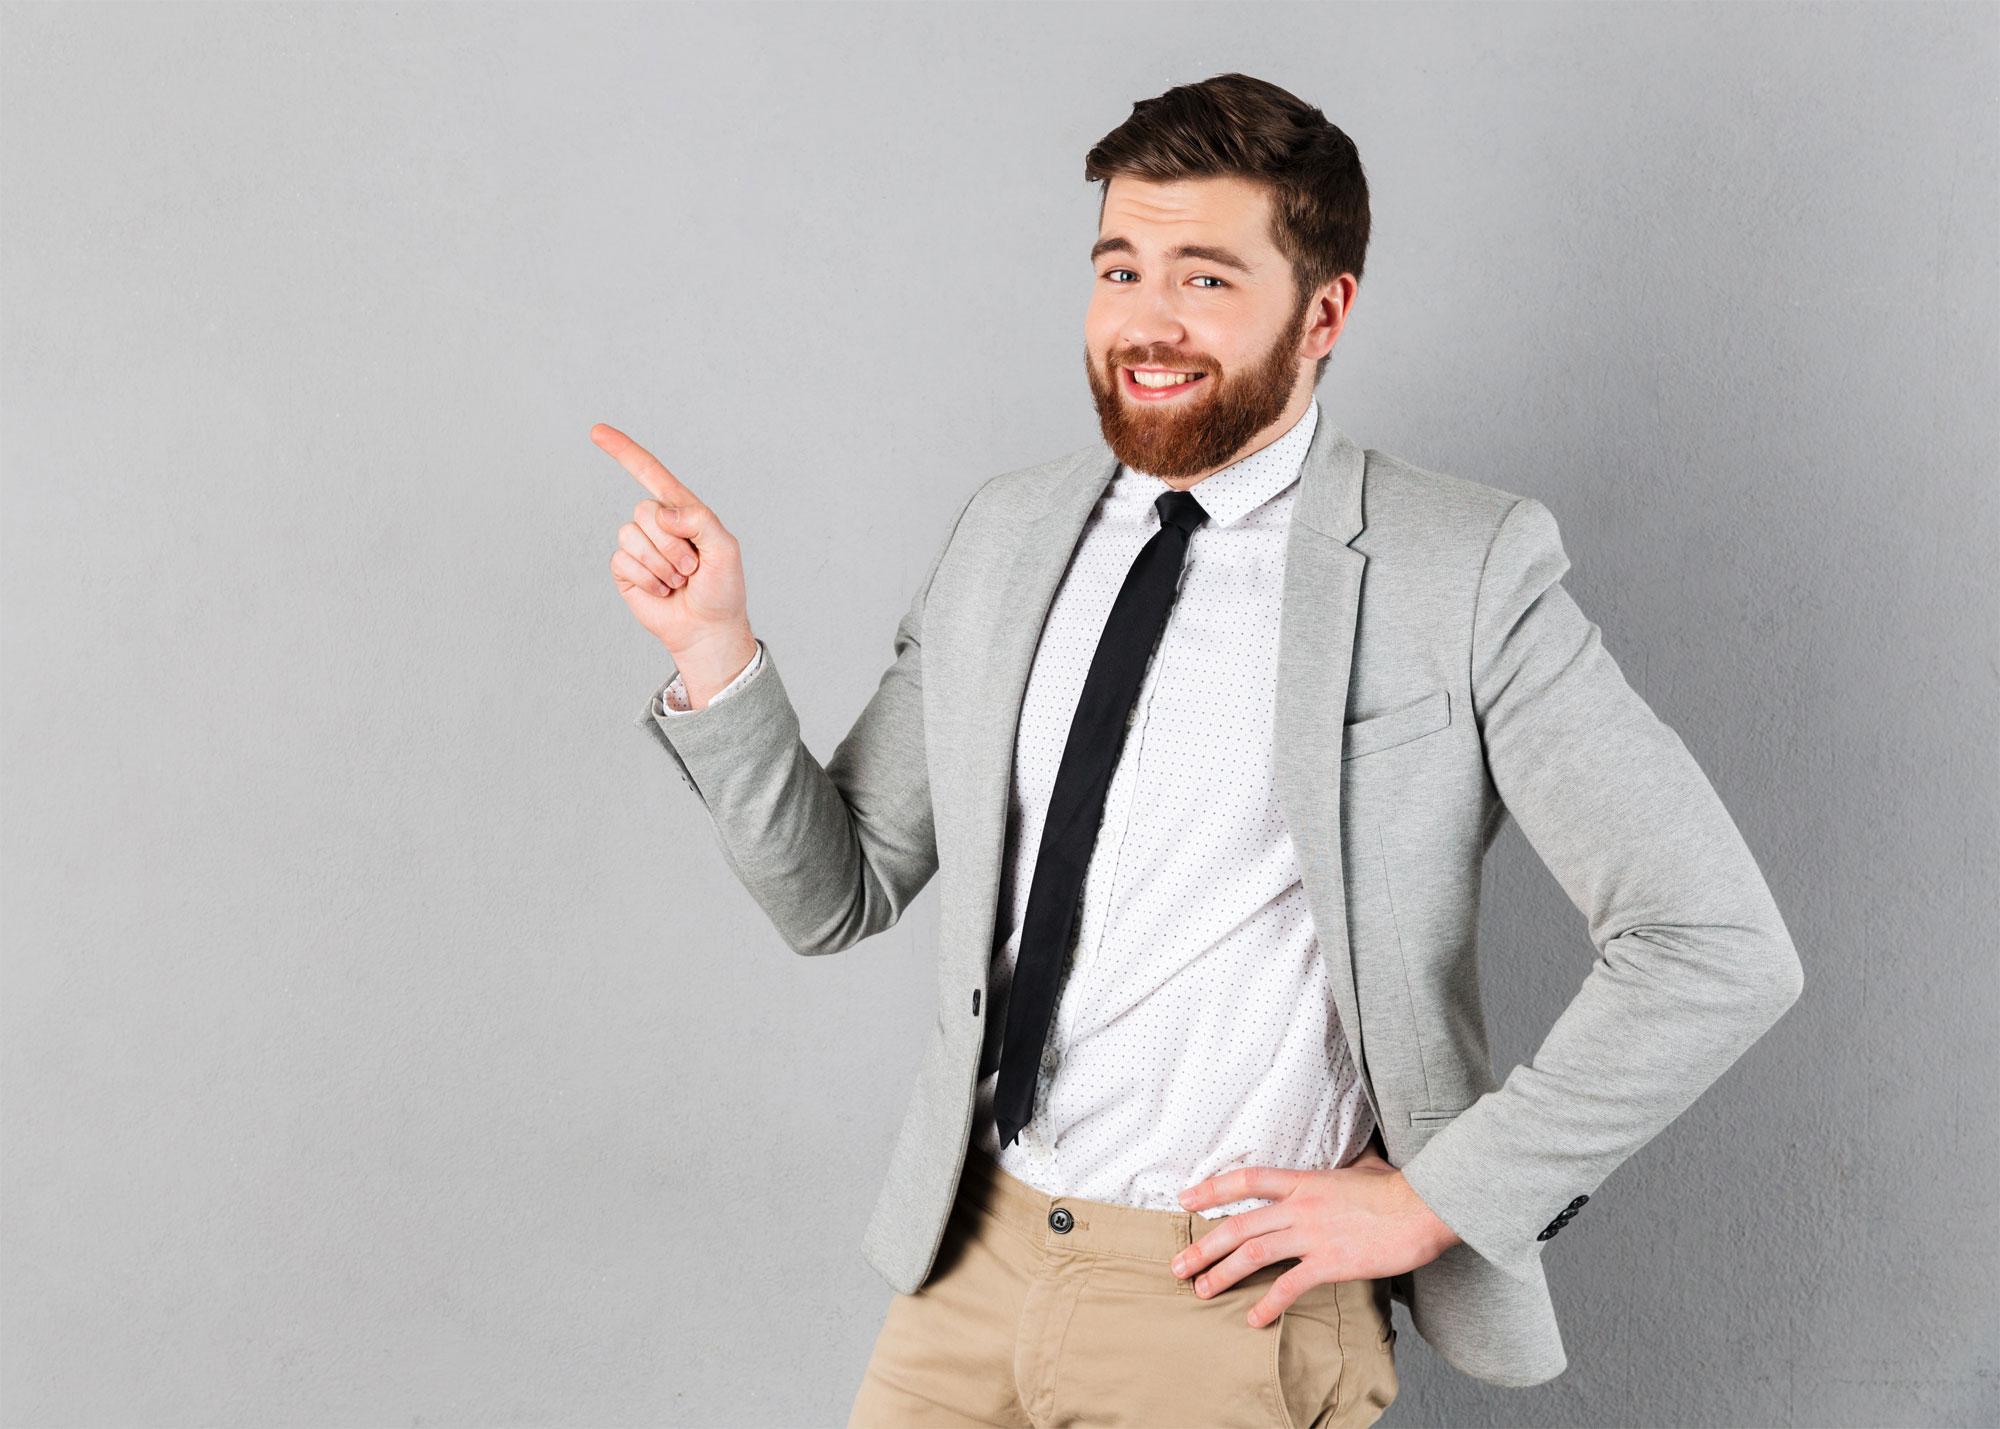
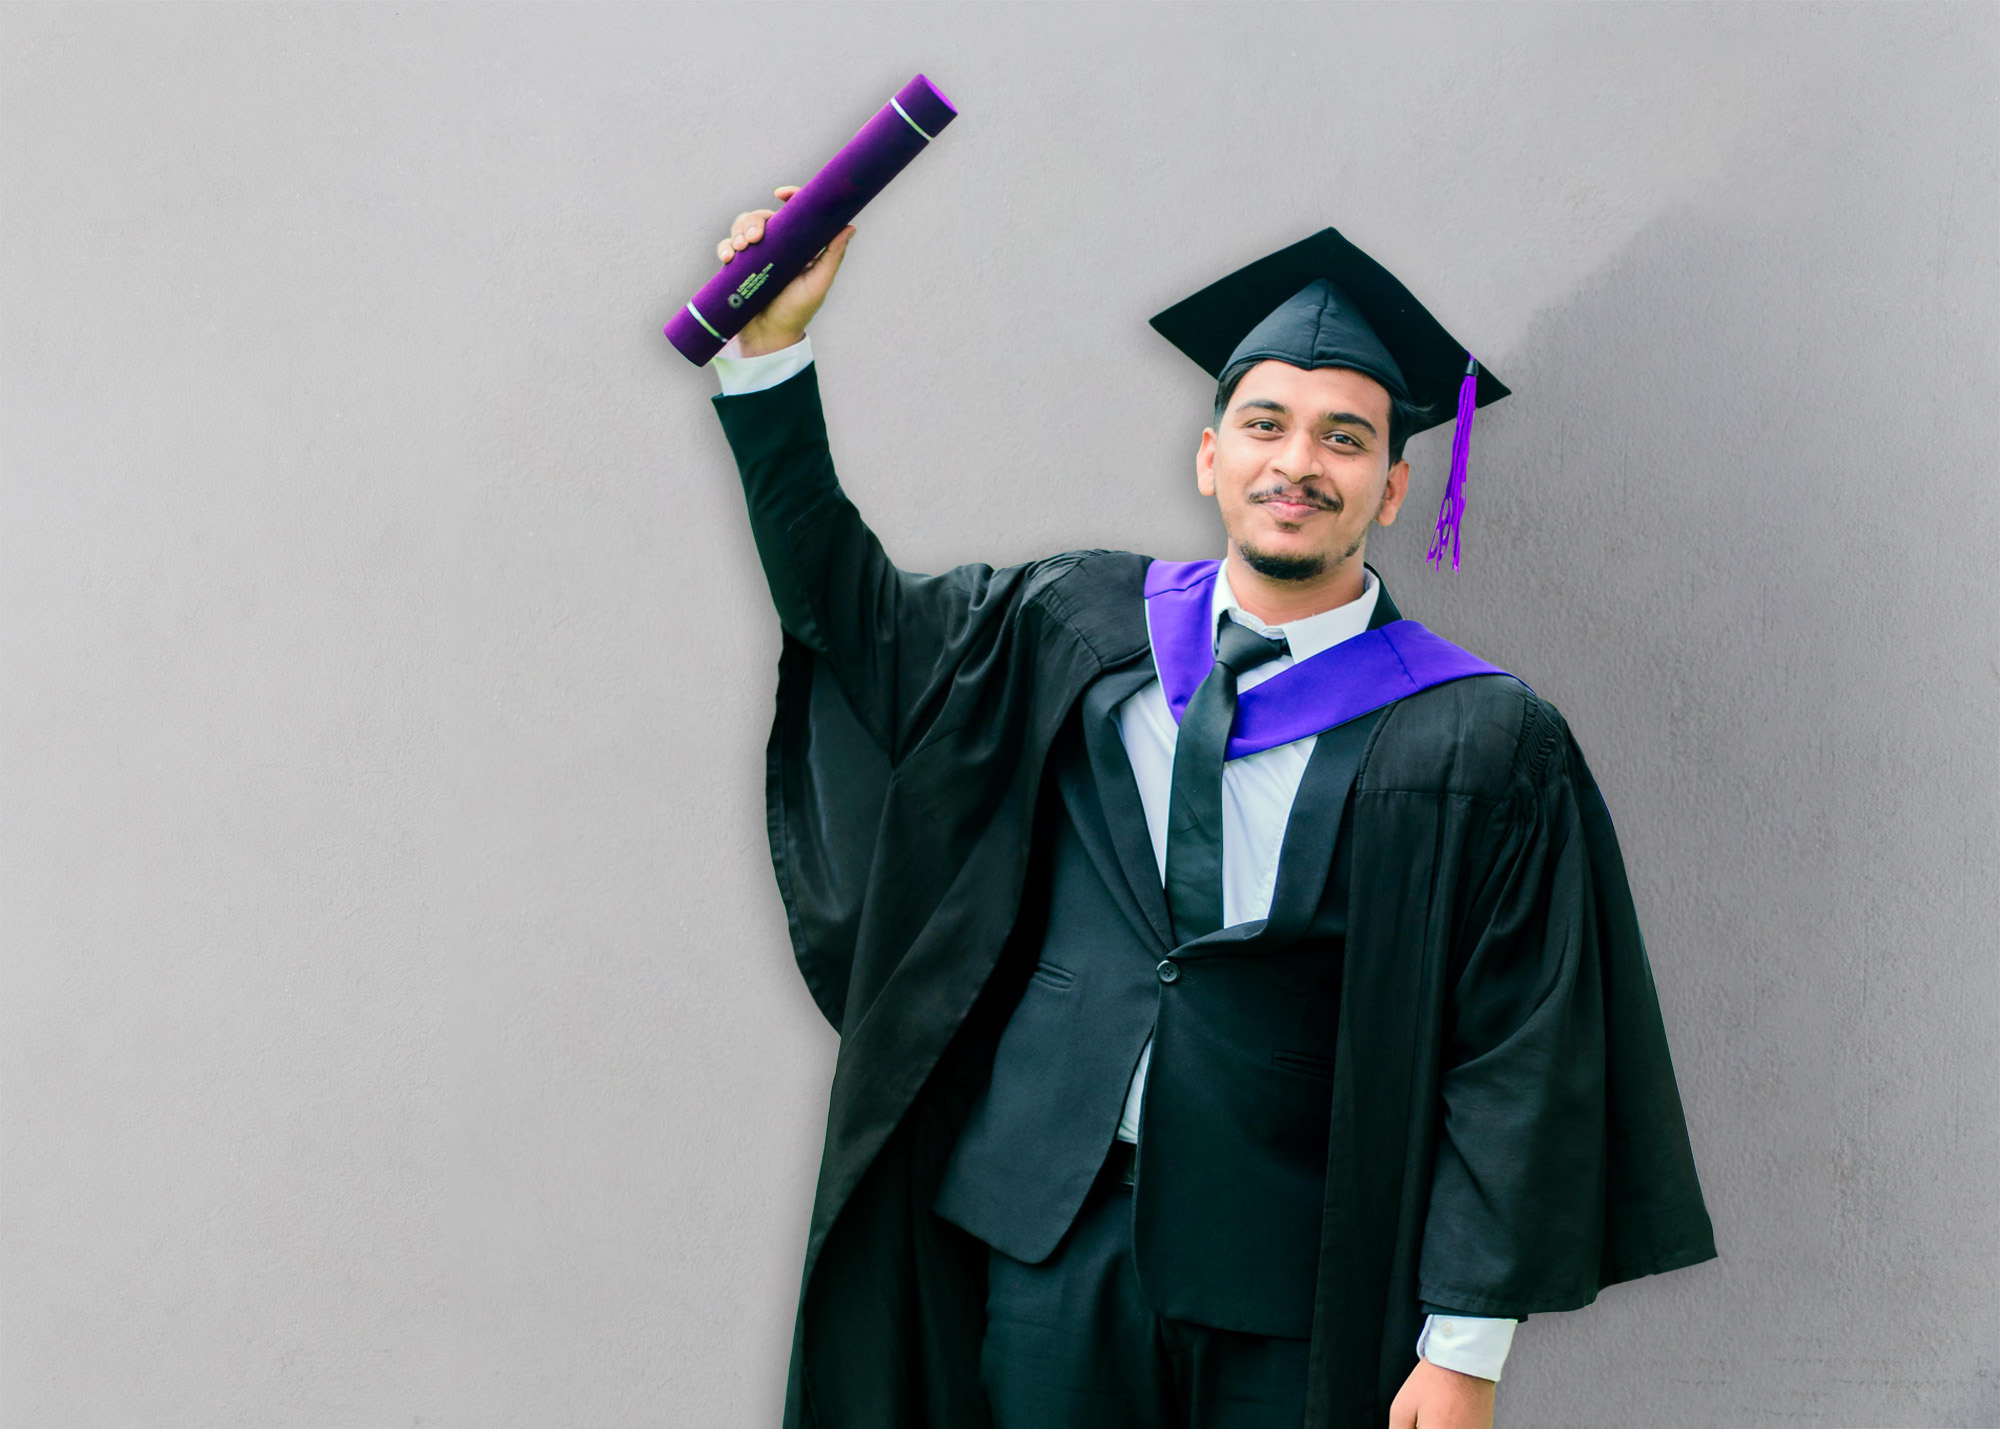
Some Changes

diff --git a/css/style.css b/css/style.css
@@ -231,7 +231,7 @@ table {
 caption {
   padding-top: 0.75rem;
   padding-bottom: 0.75rem;
-  color: #6c757d;
+  color: #7d6c77;
   text-align: left;
   caption-side: bottom;
 }
@@ -6958,7 +6958,7 @@ a.close.disabled {
 }
 
 .bg-primary {
-  background-color: #007bff !important;
+  background-color: #D72222 !important;
 }
 
 a.bg-primary:hover,
@@ -11139,7 +11139,7 @@ h5,
   font-size: 14px;
   letter-spacing: 3px;
   text-transform: uppercase;
-  color: #b1b493;
+  color: #D72222;
 }
 .owl-carousel.home-slider .slider-item .slider-text .text {
   position: relative;
@@ -11418,8 +11418,8 @@ h5,
 }
 .btn.btn-primary.btn-outline-primary:hover {
   border: 2px solid transparent !important;
-  background: #b1b493 !important;
-  color: #D72222 !important;
+  background: #D72222 !important;
+  color: white !important;
 }
 .btn.btn-secondary {
   background: #a0f669 !important;
@@ -11490,7 +11490,7 @@ h5,
 .ftco-about ul.about-info li span {
   width: calc(100% - 130px);
   font-weight: 600;
-  color: rgb(220, 53, 69);
+  color: #D72222;
 }
 .ftco-about ul.about-info li span:first-child {
   font-weight: 600;
@@ -11503,7 +11503,7 @@ h5,
 }
 .ftco-about .my-interest .interest-wrap {
   width: 25%;
-  border-left: 2px solid #b1b493;
+  border-left: 2px solid #D72222;
   padding-left: 10px;
 }
 @media (max-width: 1199.98px) {
@@ -11517,10 +11517,10 @@ h5,
   width: 30px;
   height: 30px;
   border-radius: 50%;
-  background: #b1b493;
+  background: #D72222;
 }
 .ftco-about .my-interest .interest-wrap .icon span {
-  color: #000000;
+  color: white;
   font-size: 18px;
 }
 .ftco-about .my-interest .interest-wrap .text {
@@ -11590,7 +11590,7 @@ h5,
 }
 
 .progress-circle .h4 {
-  color: #b1b493;
+  color: #D72222;
   font-size: 22px;
 }
 
@@ -11647,7 +11647,7 @@ h5,
   -webkit-transform-origin: center left;
   -ms-transform-origin: center left;
   transform-origin: center left;
-  border-color: #b1b493 !important;
+  border-color: #d72222 !important;
 }
 
 .progress-circle .progress .progress-right {
@@ -11662,7 +11662,7 @@ h5,
   -webkit-transform-origin: center right;
   -ms-transform-origin: center right;
   transform-origin: center right;
-  border-color: #b1b493 !important;
+  border-color: #d72222 !important;
 }
 
 .progress-circle .progress .progress-value {
@@ -12077,7 +12077,7 @@ textarea.form-control {
   margin-bottom: 5px;
   text-transform: uppercase;
   color: black;
-  color: rgb(220, 53, 69);
+  color: #D72222;
   letter-spacing: 3px;
 }
 
@@ -12171,7 +12171,7 @@ textarea.form-control {
   width: 60px;
   height: 60px;
   border-radius: 50%;
-  background: #b1b493;
+  background: #D72222;
   position: relative;
 }
 .ftco-counter .icon span {
@@ -12199,7 +12199,7 @@ textarea.form-control {
 .ftco-counter .text span {
   font-weight: 600;
   font-size: 15px;
-  color: #b1b493;
+  color: #D72222;
   text-transform: uppercase;
 }
 @media (max-width: 767.98px) {

diff --git a/index.html b/index.html
@@ -153,7 +153,7 @@
 					<div class="img-about img d-flex align-items-stretch">
 						<div class="overlay"></div>
 						<div class="img d-flex align-self-stretch align-items-center"
-							style="background-image:url(images/about-1.jpg);">
+							style="background-image:url(images/about-11.png);">
 						</div>
 					</div>
 				</div>
